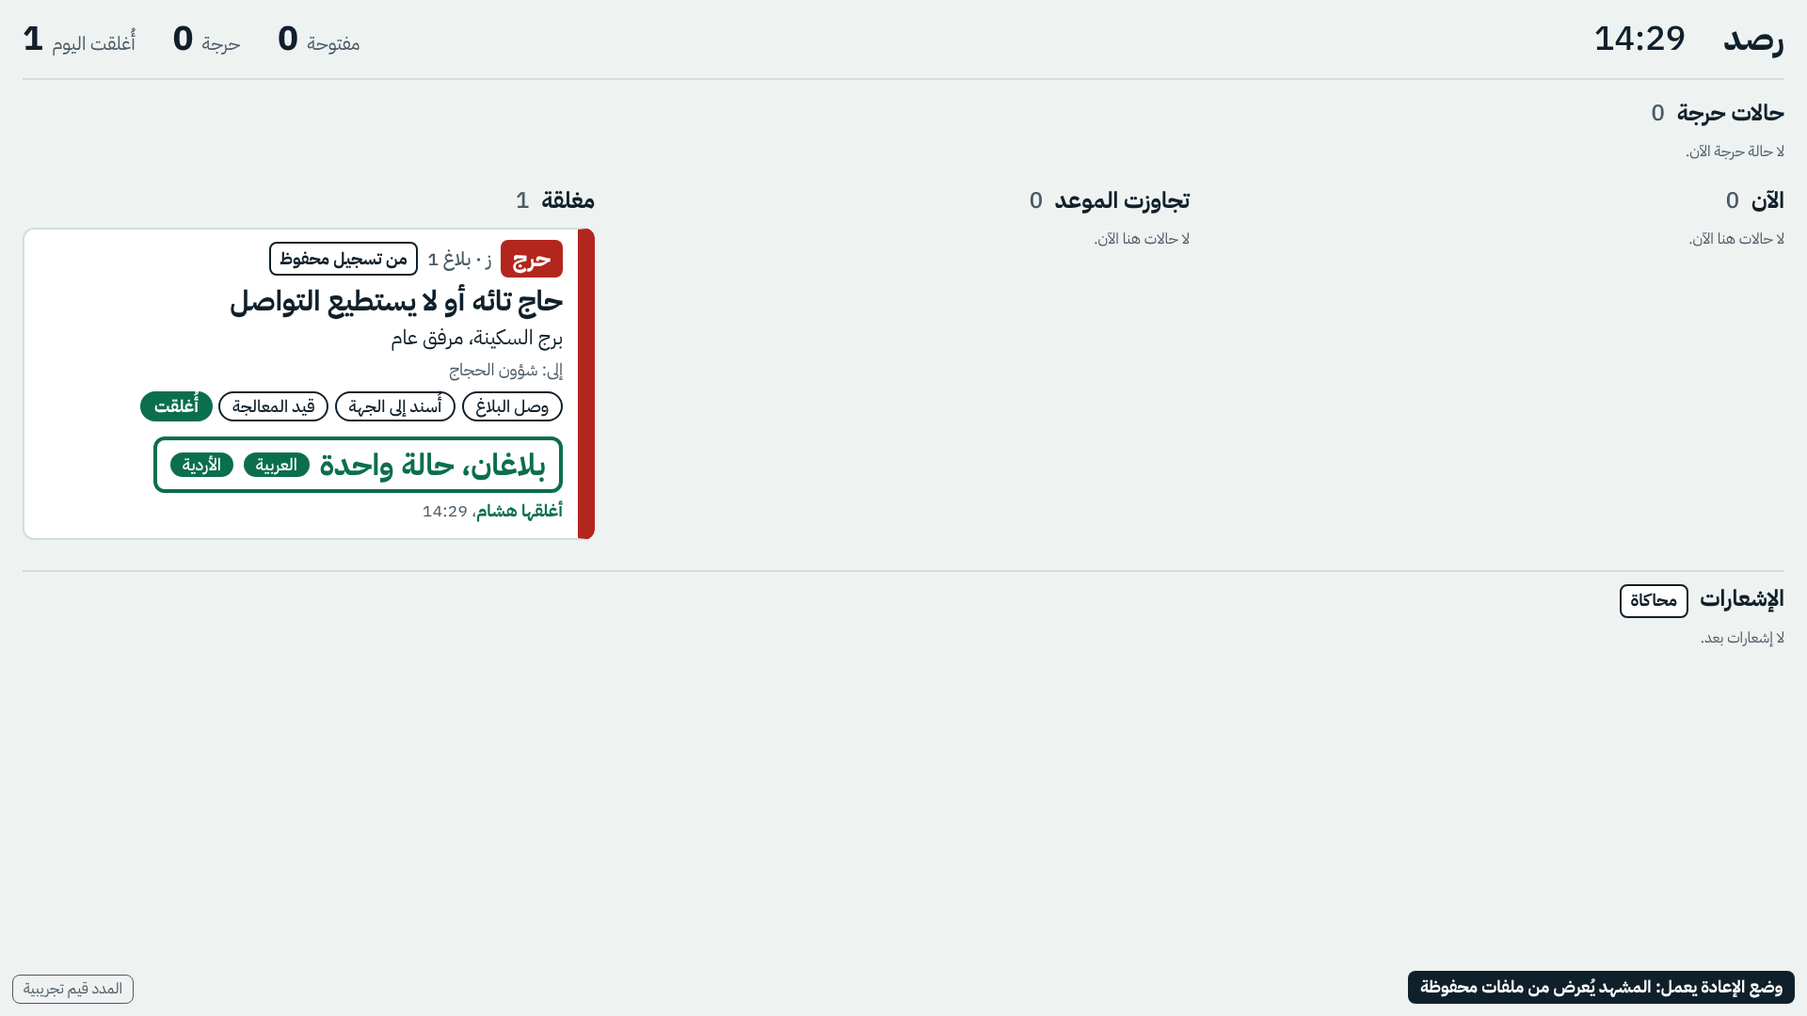
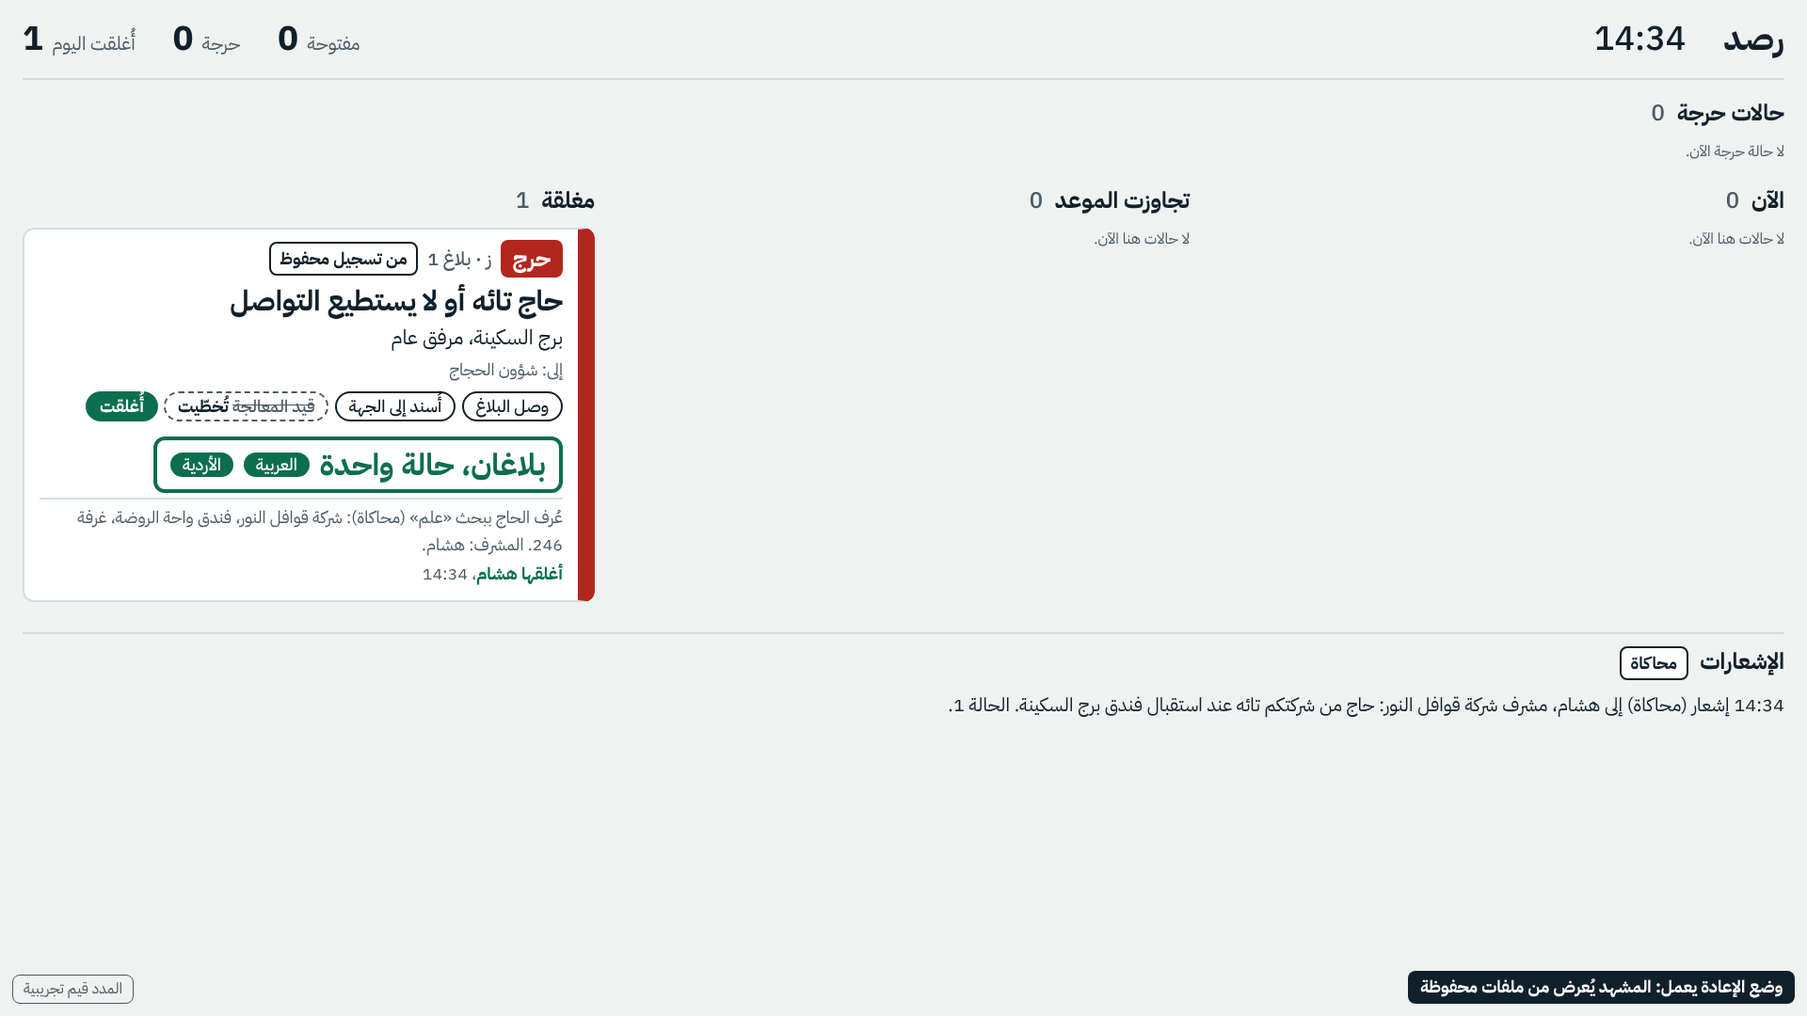
A skipped step is shown and recorded as skipped, never as done
When a case is closed without going through a step (not acknowledged, or
never assigned), that step is stored as skipped: no time and no name of its
own, only when it was noted. The board and the sender see it dashed and
crossed out with the word from the copy file, and the case history gets a
'skipped' entry. The record is evidence and must not show a step that did
not happen. Closed-board screenshot updated.

Claude-Session: https://claude.ai/code/session_014yvANP8jguTti4Q9X7Xmyt

diff --git a/app/templates/progress.html b/app/templates/progress.html
@@ -1,9 +1,10 @@
 {# The row of four steps of a case. The current step is filled, the others are outlined.
+   A step the case went past without it happening is dashed, crossed out, and says so in words.
    Colour is never the only sign: every step says its state in words for a screen reader. #}
 {% macro progress(steps, title) %}
 <ol class="progress" aria-label="{{ title }}">
   {% for step in steps %}
-  <li class="step step-{{ step.state }} step-{{ step.key }}"{% if step.state == "current" %} aria-current="step"{% endif %}>{{ step.label }}<span class="visually-hidden"> ({{ copy.STEP_STATES[step.state] }})</span></li>
+  <li class="step step-{{ step.state }} step-{{ step.key }}"{% if step.state == "current" %} aria-current="step"{% endif %}>{% if step.state == "skipped" %}<s>{{ step.label }}</s> <span class="skipped-word">{{ copy.STEP_STATES.skipped }}</span>{% else %}{{ step.label }}<span class="visually-hidden"> ({{ copy.STEP_STATES[step.state] }})</span>{% endif %}</li>
   {% endfor %}
 </ol>
 {% endmacro %}

diff --git a/app/static/report.js b/app/static/report.js
@@ -62,10 +62,18 @@
       var item = document.createElement("li");
       item.className = "step step-" + step.state + " step-" + step.key;
       if (step.state === "current") { item.setAttribute("aria-current", "step"); }
-      item.textContent = step.label;
       var said = document.createElement("span");
-      said.className = "visually-hidden";
-      said.textContent = " (" + T.stepStates[step.state] + ")";
+      if (step.state === "skipped") { // crossed out, and the word is written beside it
+        var crossed = document.createElement("s");
+        crossed.textContent = step.label;
+        item.appendChild(crossed);
+        said.className = "skipped-word";
+        said.textContent = " " + T.stepStates.skipped;
+      } else {
+        item.textContent = step.label;
+        said.className = "visually-hidden";
+        said.textContent = " (" + T.stepStates[step.state] + ")";
+      }
       item.appendChild(said);
       row.appendChild(item);
     });

diff --git a/app/static/style.css b/app/static/style.css
@@ -89,6 +89,8 @@ input[type=text], input[type=password], select, textarea { padding: .4rem .6rem;
 .progress { list-style: none; display: flex; flex-wrap: wrap; gap: .4rem; padding: 0; margin: .5rem 0; }
 .step { border: 2px solid var(--muted); color: var(--muted); background: var(--card); border-radius: 999px; padding: 0 .8rem; font-weight: 500; white-space: nowrap; }
 .step-done { border-color: var(--text); color: var(--text); }                       /* behind us: a dark outline */
+.step-skipped { border-style: dashed; }                                              /* did not happen: dashed, crossed out, and it says so */
+.step-skipped .skipped-word { font-weight: 700; color: var(--text); }
 .step-current { border-color: var(--text); background: var(--text); color: #FFFFFF; font-weight: 700; }
 .step-current.step-closed { border-color: var(--done); background: var(--done); }    /* green means closed */
 .board .progress { font-size: 1.125rem; }

diff --git a/app/store.py b/app/store.py
@@ -39,7 +39,8 @@ create table if not exists private_numbers (
     id integer primary key, report_id integer, case_id integer, kind text, value text);
 create table if not exists notifications (id integer primary key, case_id integer, at text, text text);
 create table if not exists settings (name text primary key, value text);
-create table if not exists steps (case_id integer, step text, at text, who text, primary key (case_id, step));
+create table if not exists steps (
+    case_id integer, step text, at text, who text, skipped integer default 0, primary key (case_id, step));
 """
 
 # How a report reached us. "saved" is a voice note the operator sent from the saved scene files.
@@ -75,18 +76,24 @@ def _screen_hotel(hotel: str | None) -> str | None:
     return hotel if hotel is None or hotel in HOTELS else copy.UNLISTED_HOTEL
 
 
-def _steps_view(reached: dict[str, str]) -> list[dict]:
-    """The four steps with their state. reached: step -> when. The furthest step reached is the current one;
-    a step that was skipped on the way (closed without being acknowledged) counts as done, with no time."""
+def _steps_view(reached: dict[str, str], skipped: set[str] = frozenset()) -> list[dict]:
+    """The four steps with their state. reached: step -> when it happened. skipped: steps the case went past.
+
+    The furthest step reached is the current one. A step is "done" only when it really happened;
+    one the case went past without it happening is "skipped", with no time.
+    """
     keys = list(copy.STEPS)
     current = max((keys.index(step) for step in reached), default=0)
+
+    def state(index: int, key: str) -> str:
+        if index == current:
+            return "current"
+        if index > current:
+            return "todo"
+        return "done" if key in reached and key not in skipped else "skipped"
+
     return [
-        {
-            "key": key,
-            "label": copy.STEPS[key],
-            "state": "current" if index == current else ("done" if index < current else "todo"),
-            "at": reached.get(key),
-        }
+        {"key": key, "label": copy.STEPS[key], "state": state(index, key), "at": reached.get(key)}
         for index, key in enumerate(keys)
     ]
 
@@ -112,6 +119,8 @@ class Store:
         self.db.executescript(TABLES)
         if "language" not in [row["name"] for row in self.db.execute("pragma table_info(reports)")]:
             self.db.execute("alter table reports add column language text")  # a file made before the design pass
+        if "skipped" not in [row["name"] for row in self.db.execute("pragma table_info(steps)")]:
+            self.db.execute("alter table steps add column skipped integer default 0")  # a file made before skipped steps
         self.lock = threading.Lock()  # the pages are served from several threads
 
     # --- settings and clearing ------------------------------------------------------------
@@ -209,26 +218,37 @@ class Store:
             }
             self.db.execute("update cases set replacement = ? where id = ?", (json.dumps(saved, ensure_ascii=False), case_id))
 
-    def _step(self, case_id: int, step: str, at: datetime, who: str) -> None:
-        """Records that a case reached a step (copy.STEPS), when, and who did it. The first time counts."""
+    def _step(self, case_id: int, step: str, at: datetime, who: str, skipped: bool = False) -> None:
+        """Records that a case reached a step (copy.STEPS), when, and who did it. The first time counts.
+
+        skipped=True records the opposite: the case went past this step WITHOUT it happening.
+        The record is evidence, so a skipped step is stored as skipped and never as done.
+        """
         self.db.execute(
-            "insert or ignore into steps (case_id, step, at, who) values (?, ?, ?, ?)",
-            (case_id, step, at.isoformat(timespec="seconds"), who),
+            "insert or ignore into steps (case_id, step, at, who, skipped) values (?, ?, ?, ?, ?)",
+            (case_id, step, at.isoformat(timespec="seconds"), who, int(skipped)),
         )
 
     def step_record(self, case_id: int) -> list[dict]:
-        """The steps a case has reached, in order, each with its time and who did it."""
+        """The history of a case's steps, in order. A step that happened has its time and who did it.
+        A step that was skipped says so, with no time and no name of its own: only when that was noted."""
         with self.lock:
-            rows = self.db.execute("select step, at, who from steps where case_id = ?", (case_id,)).fetchall()
+            rows = self.db.execute("select step, at, who, skipped from steps where case_id = ?", (case_id,)).fetchall()
         names = {"sender": copy.STEP_BY_SENDER, "rasd": copy.STEP_BY_RASD}
-        found = {row["step"]: {"step": row["step"], "at": row["at"], "who": names.get(row["who"], row["who"])} for row in rows}
+        found = {}
+        for row in rows:
+            if row["skipped"]:
+                found[row["step"]] = {"step": row["step"], "at": None, "who": None, "skipped": True, "noted_at": row["at"]}
+            else:
+                found[row["step"]] = {"step": row["step"], "at": row["at"], "who": names.get(row["who"], row["who"]), "skipped": False}
         return [found[step] for step in copy.STEPS if step in found]
 
     def steps(self, case_id: int) -> list[dict]:
-        """The four steps of a case as the board and the sender see them: which are done, which is the
-        current one, and when each was reached. No names: who did a step is in step_record()."""
-        reached = {entry["step"]: entry["at"] for entry in self.step_record(case_id)}
-        return _steps_view(reached)
+        """The four steps of a case as the board and the sender see them: done, current, to come or
+        skipped, and when each was reached. No names: who did a step is in step_record()."""
+        record = self.step_record(case_id)
+        reached = {entry["step"]: entry["at"] for entry in record if not entry["skipped"]}
+        return _steps_view(reached, {entry["step"] for entry in record if entry["skipped"]})
 
     def report_status(self, report_id: int) -> tuple[int, list[dict]] | None:
         """For the sender: the case their report belongs to NOW (also after a merge), and its steps."""
@@ -372,6 +392,12 @@ class Store:
                 raise CaseClosed
             close_incident(incident, closed_by=who, at=at)
             self.db.execute("update cases set incident = ? where id = ?", (_incident_to_json(incident), case_id))
+            # Steps the case never went through are recorded as skipped, so the record cannot be read as if they happened.
+            reached = {row["step"] for row in self.db.execute("select step from steps where case_id = ?", (case_id,))}
+            for step in ("assigned", "in_progress"):
+                if step not in reached:
+                    self._step(case_id, step, at, incident.closed_by, skipped=True)
+                    self._log(case_id, at, incident.closed_by, f"skipped {step}")
             self._log(case_id, at, incident.closed_by, "closed")
             self._step(case_id, "closed", at, incident.closed_by)
 
@@ -403,7 +429,7 @@ class Store:
             rows = self.db.execute("select * from cases order by id").fetchall()
             saved = self.db.execute("select distinct case_id from reports where source = ?", (SAVED_SOURCE,)).fetchall()
             spoken = self.db.execute("select case_id, language from reports where language is not null order by id").fetchall()
-            stepped = self.db.execute("select case_id, step, at from steps").fetchall()
+            stepped = self.db.execute("select case_id, step, at, skipped from steps").fetchall()
         from_saved = {row["case_id"] for row in saved}
         languages: dict[int, list[str]] = {}
         for row in spoken:  # each language once, in the order the reports came
@@ -411,14 +437,18 @@ class Store:
             if row["language"] in copy.LANGUAGES and copy.LANGUAGES[row["language"]] not in names:
                 names.append(copy.LANGUAGES[row["language"]])
         reached: dict[int, dict[str, str]] = {}
+        skipped: dict[int, set[str]] = {}
         for row in stepped:
-            reached.setdefault(row["case_id"], {})[row["step"]] = row["at"]
+            if row["skipped"]:
+                skipped.setdefault(row["case_id"], set()).add(row["step"])
+            else:
+                reached.setdefault(row["case_id"], {})[row["step"]] = row["at"]
         cases = [
             {
                 **self._public(row, now),
                 "from_saved": row["id"] in from_saved,
                 "languages": languages.get(row["id"], []),
-                "steps": _steps_view(reached.get(row["id"], {})),
+                "steps": _steps_view(reached.get(row["id"], {}), skipped.get(row["id"], set())),
             }
             for row in rows
         ]

diff --git a/tests/test_progress.py b/tests/test_progress.py
@@ -104,8 +104,8 @@ def test_confirming_assigns_it_and_records_who_and_when(site):
     site.post("/api/cases/1/confirm", data={"who": "سالم"})
     assert states(case(site)["steps"]) == ["done", "current", "todo", "todo"]
     assert record(site) == [
-        {"step": "received", "at": "2026-12-23T10:00:00", "who": copy.STEP_BY_SENDER},
-        {"step": "assigned", "at": "2026-12-23T10:03:00", "who": "سالم"},
+        {"step": "received", "at": "2026-12-23T10:00:00", "who": copy.STEP_BY_SENDER, "skipped": False},
+        {"step": "assigned", "at": "2026-12-23T10:03:00", "who": "سالم", "skipped": False},
     ]
 
 
@@ -114,12 +114,12 @@ def test_an_answer_that_completes_the_report_assigns_it(site):
     site.clock.now += timedelta(minutes=2)
     site.post(f"/api/reports/{reply['report_id']}/answer", data={"reply": "512"})
     assert states(case(site)["steps"]) == ["done", "current", "todo", "todo"]
-    assert record(site)[1] == {"step": "assigned", "at": "2026-12-23T10:02:00", "who": copy.STEP_BY_RASD}
+    assert record(site)[1] == {"step": "assigned", "at": "2026-12-23T10:02:00", "who": copy.STEP_BY_RASD, "skipped": False}
 
 
 def test_a_report_assigned_on_arrival_is_assigned_by_rasd(site):
     send(site, WITH_ROOM)
-    assert record(site)[1] == {"step": "assigned", "at": "2026-12-23T10:00:00", "who": copy.STEP_BY_RASD}
+    assert record(site)[1] == {"step": "assigned", "at": "2026-12-23T10:00:00", "who": copy.STEP_BY_RASD, "skipped": False}
 
 
 def test_acknowledging_puts_it_in_progress_once(site):
@@ -129,7 +129,7 @@ def test_acknowledging_puts_it_in_progress_once(site):
     site.clock.now += timedelta(minutes=4)
     site.post("/api/cases/1/acknowledge", data={"who": "سالم"})
     assert states(case(site)["steps"]) == ["done", "done", "current", "todo"]
-    assert record(site)[2] == {"step": "in_progress", "at": "2026-12-23T10:04:00", "who": "هشام"}
+    assert record(site)[2] == {"step": "in_progress", "at": "2026-12-23T10:04:00", "who": "هشام", "skipped": False}
 
 
 def test_closing_is_the_last_step_with_who_and_when(site):
@@ -138,14 +138,64 @@ def test_closing_is_the_last_step_with_who_and_when(site):
     site.clock.now += timedelta(minutes=9)
     site.post("/api/cases/1/close", data={"who": "هشام"})
     assert states(case(site)["steps"]) == ["done", "done", "done", "current"]
-    assert record(site)[-1] == {"step": "closed", "at": "2026-12-23T10:09:00", "who": "هشام"}
+    assert record(site)[-1] == {"step": "closed", "at": "2026-12-23T10:09:00", "who": "هشام", "skipped": False}
 
 
-def test_a_case_closed_without_being_acknowledged_still_ends_on_closed(site):
+def test_a_step_that_did_not_happen_is_shown_as_skipped_never_as_done(site):
     send(site, WITH_ROOM)
+    site.clock.now += timedelta(minutes=7)
     site.post("/api/cases/1/close", data={"who": "هشام"})
-    assert states(case(site)["steps"]) == ["done", "done", "done", "current"]
-    assert [entry["step"] for entry in record(site)] == ["received", "assigned", "closed"]  # nothing is invented for the skipped step
+    steps = case(site)["steps"]
+    assert states(steps) == ["done", "done", "skipped", "current"]
+    assert steps[2]["at"] is None
+
+
+def test_the_record_says_skipped_and_gives_the_step_no_time_and_no_name(site):
+    """The record is evidence: it must never show a step that did not happen."""
+    send(site, WITH_ROOM)
+    site.clock.now += timedelta(minutes=7)
+    site.post("/api/cases/1/close", data={"who": "هشام"})
+    assert record(site) == [
+        {"step": "received", "at": "2026-12-23T10:00:00", "who": copy.STEP_BY_SENDER, "skipped": False},
+        {"step": "assigned", "at": "2026-12-23T10:00:00", "who": copy.STEP_BY_RASD, "skipped": False},
+        {"step": "in_progress", "at": None, "who": None, "skipped": True, "noted_at": "2026-12-23T10:07:00"},
+        {"step": "closed", "at": "2026-12-23T10:07:00", "who": "هشام", "skipped": False},
+    ]
+    events = site.get("/api/cases/1/events").json()["events"]
+    assert {"what": "skipped in_progress", "who": "هشام", "at": "2026-12-23T10:07:00"} in events
+
+
+def test_a_case_closed_while_it_still_waited_for_the_supervisor_skipped_two_steps(site):
+    waiting_report(site)
+    site.post("/api/cases/1/close", data={"who": "هشام"})
+    assert states(case(site)["steps"]) == ["done", "skipped", "skipped", "current"]
+    assert [(entry["step"], entry["skipped"]) for entry in record(site)] == [
+        ("received", False), ("assigned", True), ("in_progress", True), ("closed", False),
+    ]  # fmt: skip
+
+
+def test_a_case_that_went_through_every_step_has_nothing_skipped(site):
+    send(site, WITH_ROOM)
+    site.post("/api/cases/1/acknowledge", data={"who": "هشام"})
+    site.post("/api/cases/1/close", data={"who": "هشام"})
+    assert "skipped" not in states(case(site)["steps"]) and not any(entry["skipped"] for entry in record(site))
+    assert not any(event["what"].startswith("skipped") for event in site.get("/api/cases/1/events").json()["events"])
+
+
+def test_an_open_case_has_no_skipped_step_yet(site):
+    send(site, WITH_ROOM)
+    assert states(case(site)["steps"]) == ["done", "current", "todo", "todo"]
+
+
+def test_the_board_and_the_sender_see_the_skipped_step_with_its_label(site):
+    assert copy.STEP_STATES["skipped"] == "تُخطّيت"
+    reply = send(site, WITH_ROOM)
+    site.post("/api/cases/1/close", data={"who": "هشام"})
+    page = site.get("/board").text
+    assert "step-skipped" in page and "تُخطّيت" in page
+    status = site.get(f"/api/reports/{reply['report_id']}/status").json()
+    assert states(status["steps"]) == ["done", "done", "skipped", "current"]
+    assert "step-skipped" in site.get("/static/style.css").text and "skipped" in site.get("/static/report.js").text
 
 
 def test_every_open_assigned_case_can_be_acknowledged_from_the_board_not_only_critical_ones(site):

diff --git a/tests/test_scene_assets.py b/tests/test_scene_assets.py
@@ -128,7 +128,8 @@ def test_the_whole_scene_from_two_voice_notes_to_a_closed_case(site):
     assert closed["state"] == "closed" and closed["closed_by"] == record.supervisor
     assert closed["closed_at"] == "2026-12-23T10:10:00"
     events = site.get(f"/api/cases/{case['id']}/events").json()["events"]
-    assert [event["what"] for event in events] == ["reported", "reported", "identified", "closed"]
+    # Nobody pressed "acknowledge" in this scene, and the history says so instead of leaving it out.
+    assert [event["what"] for event in events] == ["reported", "reported", "identified", "skipped in_progress", "closed"]
     assert events[-1]["who"] == record.supervisor and events[-1]["at"] == "2026-12-23T10:10:00"
 
 

diff --git a/app/copy.py b/app/copy.py
@@ -31,7 +31,7 @@ NO_CASES = "لا حالات هنا الآن."
 STEPS = {"received": "وصل البلاغ", "assigned": "أُسند إلى الجهة", "in_progress": "قيد المعالجة", "closed": "أُغلقت"}
 STEPS_TITLE = "مراحل الحالة"
 YOUR_REPORT_STEPS = "مراحل بلاغك"
-STEP_STATES = {"done": "تمّت", "current": "المرحلة الحالية", "todo": "لم تبدأ"}
+STEP_STATES = {"done": "تمّت", "current": "المرحلة الحالية", "todo": "لم تبدأ", "skipped": "تُخطّيت"}
 STEP_BY_SENDER = "المرسل"
 STEP_BY_RASD = "رصد"
 # The board's layout: a band for critical cases, then three columns.

diff --git a/QUESTIONS.md b/QUESTIONS.md
@@ -427,8 +427,12 @@ labels in `app/copy.py`, existing colours only. Choices I made:
 101. **Every open, assigned case can now be acknowledged from the board**, not
      only critical ones, because the third step needs an action. Only critical
      cases have an acknowledge deadline, as before.
-102. **A case closed without being acknowledged** ends on "closed"; the skipped
-     step is drawn as passed and nothing is recorded for it.
+102. **A step that did not happen is shown and recorded as skipped** (the
+     owner's change on review; the record is evidence). On closing, any step
+     the case never went through (assigned, in progress) is stored as skipped:
+     no time and no name of its own, only when that was noted. The board and
+     the sender see it dashed and crossed out with the word «تُخطّيت». The
+     case history also gets an entry such as "skipped in_progress".
 103. **Done steps are outlined in dark, the current one is filled, the ones to
      come are outlined in the muted colour.** The closed step is filled green,
      since green means closed. Each step also says its state in words for a
@@ -440,3 +444,4 @@ labels in `app/copy.py`, existing colours only. Choices I made:
 105. **The step record is its own table** (`steps`), beside the event log,
      so the log's meaning did not change.
 
+**The owner approved 100 to 105 on review**, with the change in 102.

diff --git a/CLAUDE.md b/CLAUDE.md
@@ -18,7 +18,7 @@ these before changing anything:
   has not yet confirmed them, except the three listed below. Treat the rest as provisional.
 - `DEMO.md` (Arabic): demo-day guide. `WHATSAPP_COUNT.md` (Arabic): the counting tool.
 
-What exists (950 tests, `python -m pytest`, no key and no network needed):
+What exists (955 tests, `python -m pytest`, no key and no network needed):
 
 - `rasd/`: the rules. The model READS a message (`understand.py`); the team's
   tables DECIDE owner, priority and deadlines (`routing.py`); our code CHECKS
@@ -290,7 +290,8 @@ Decided by the owner on 26 November 2026, after the morning report (built and te
 
 - Every case has four progress steps (`copy.STEPS`: received, assigned, in
   progress, closed), recorded with time and who in the `steps` table
-  (`Store._step`). The board shows them on each card; the sender sees them
+  (`Store._step`). A step a case went past without it happening is recorded
+  and drawn as skipped, never as done: the record is evidence. The board shows them on each card; the sender sees them
   under their own report (`/api/reports/N/status`, steps only, no names).
 
 Not built: correcting the room on the phone before the report reaches the
